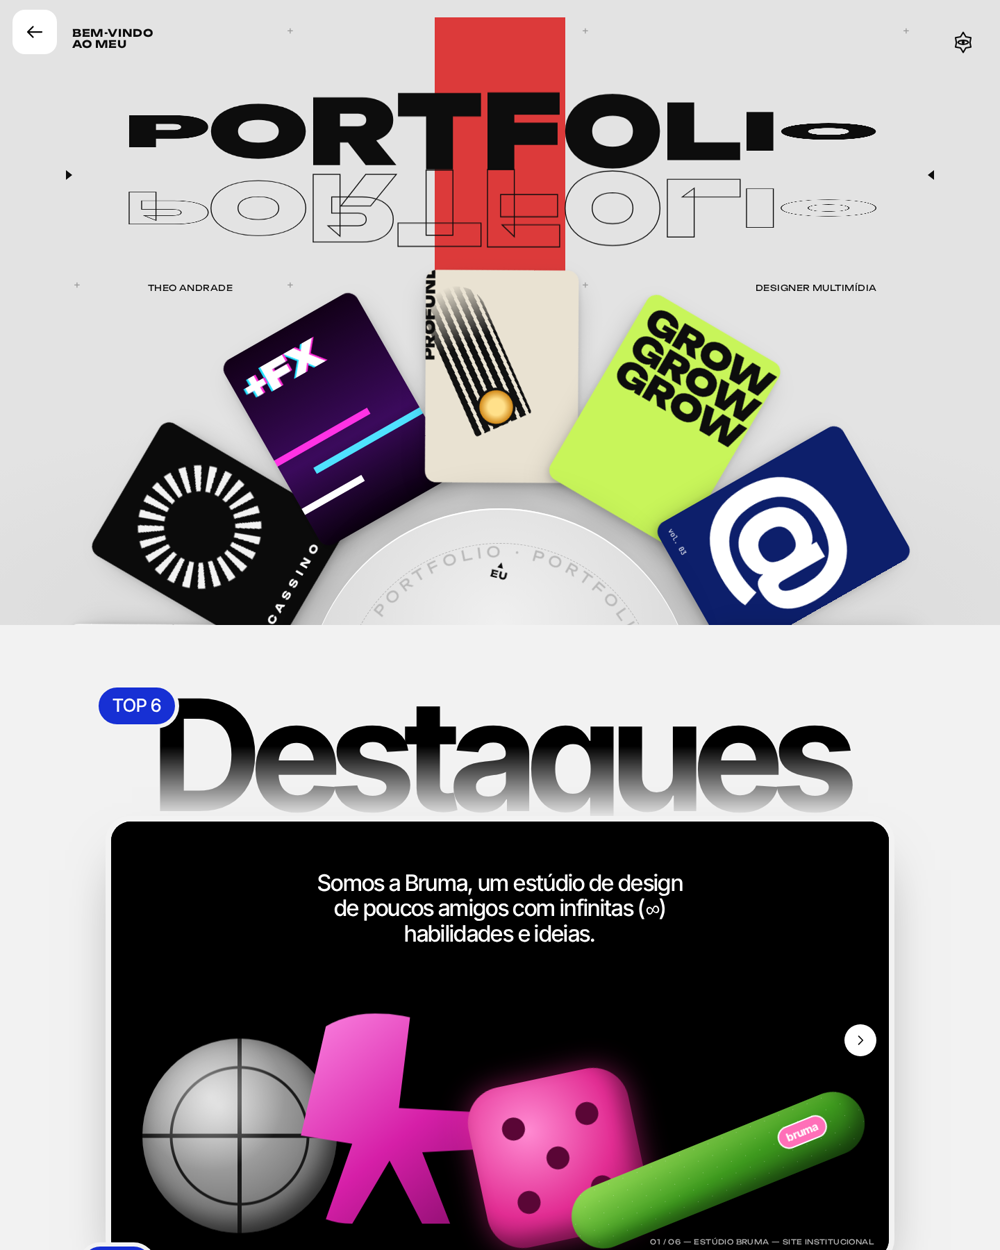
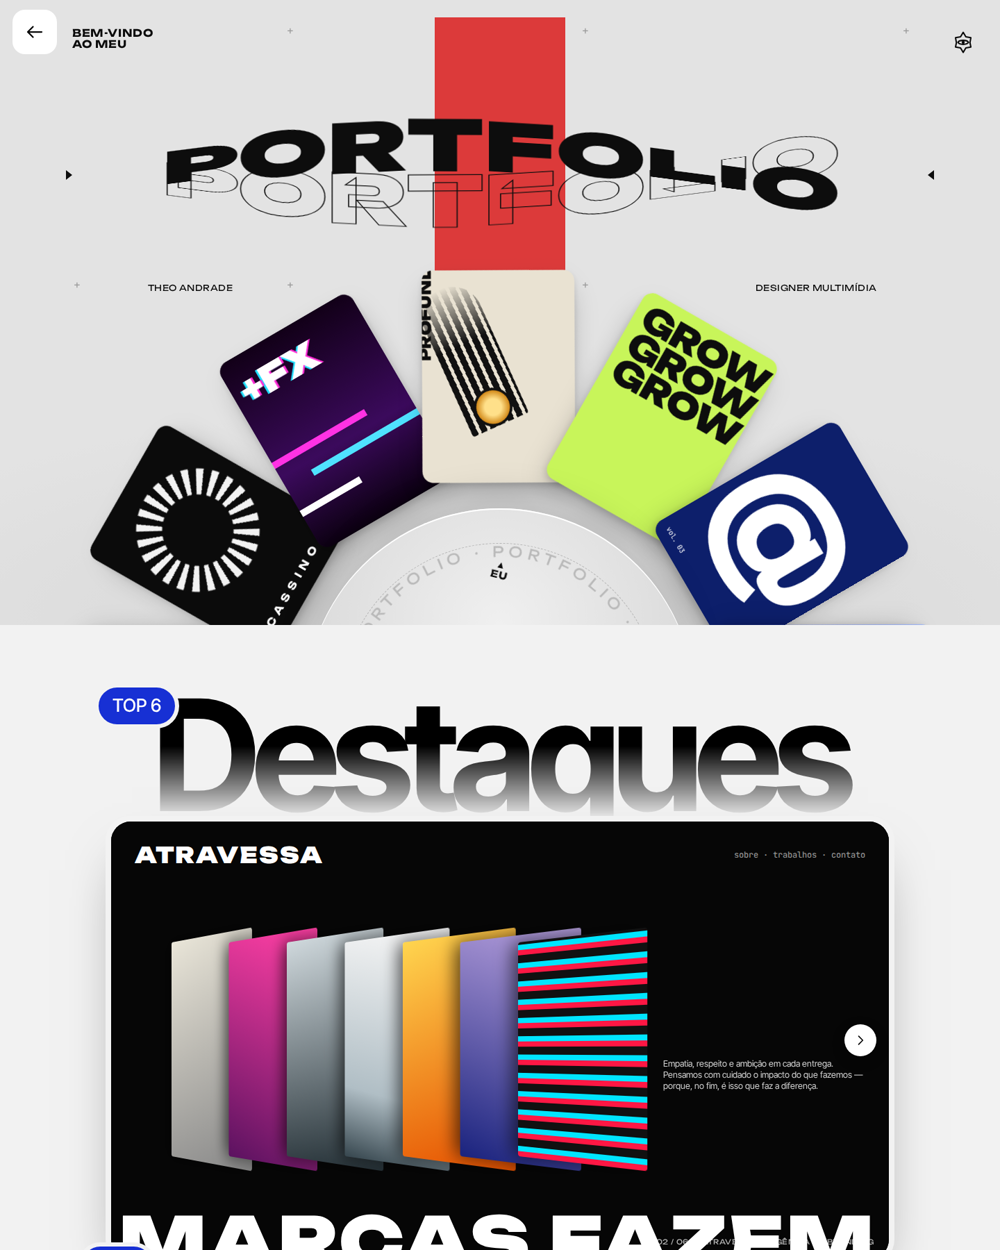
caso-06: título PORTFOLIO em fita igual à referência
As duas linhas (preenchida e vazada) agora trocam de lugar numa onda
contínua que corre pela palavra, com as letras achatando e inclinando
no cruzamento. Fonte mais estreita na altura e esticada na horizontal,
como na referência.

Claude-Session: https://claude.ai/code/session_01AG5rTn6CWeWC3iARPbKf2L

diff --git a/caso-06-designer-theo-andrade/assets/styles.css b/caso-06-designer-theo-andrade/assets/styles.css
@@ -169,40 +169,35 @@ svg { display: block; }
 .title-name { left: 7%; }
 .title-role { right: 4%; }
 
-/* PORTFOLIO em fita torcida: cada letra tem duas linhas que giram em X com fase deslocada */
+/* PORTFOLIO em fita: a linha preenchida e a linha vazada trocam de lugar numa onda
+   que corre da esquerda para a direita (posições calculadas no app.js) */
 .wave {
   position: relative; z-index: 2;
   display: flex;
-  margin-top: -4%;
+  margin-top: -3%;
   font-family: var(--f-wide);
-  font-weight: 900;
-  font-size: clamp(46px, 10.4vw, 150px);
-  line-height: .74;
-  letter-spacing: -.02em;
+  font-weight: 800;
+  font-size: clamp(34px, 7vw, 104px);
+  line-height: 1;
+  letter-spacing: -.01em;
+  transform: scaleX(1.32);
 }
-.wave .col { display: inline-flex; flex-direction: column; align-items: center; }
+.wave .col { position: relative; display: inline-block; }
 .wave .row {
   display: block;
   color: var(--ink);
-  -webkit-text-stroke: 0 var(--ink);
-  animation: twist 4.2s linear infinite;
-  animation-delay: calc(var(--i) * -.21s);
+  transform-origin: 50% 50%;
   will-change: transform;
 }
-.wave .row.b { animation-delay: calc(var(--i) * -.21s - 2.1s); }
-
-.wave .col:nth-child(1) { --i: 0; } .wave .col:nth-child(2) { --i: 1; } .wave .col:nth-child(3) { --i: 2; }
-.wave .col:nth-child(4) { --i: 3; } .wave .col:nth-child(5) { --i: 4; } .wave .col:nth-child(6) { --i: 5; }
-.wave .col:nth-child(7) { --i: 6; } .wave .col:nth-child(8) { --i: 7; } .wave .col:nth-child(9) { --i: 8; }
-
-@keyframes twist {
-  0%     { transform: rotateX(0deg);   color: var(--ink); -webkit-text-stroke-width: 0; }
-  24.9%  { color: var(--ink); -webkit-text-stroke-width: 0; }
-  25%    { transform: rotateX(90deg);  color: transparent; -webkit-text-stroke-width: 1.4px; }
-  74.9%  { color: transparent; -webkit-text-stroke-width: 1.4px; }
-  75%    { transform: rotateX(270deg); color: var(--ink); -webkit-text-stroke-width: 0; }
-  100%   { transform: rotateX(360deg); color: var(--ink); -webkit-text-stroke-width: 0; }
+.wave .row.b {
+  position: absolute; left: 0; top: 0;
+  color: transparent;
+  -webkit-text-stroke: 1.2px var(--ink);
+  z-index: -1;
 }
+/* posição de repouso (sem JS / movimento reduzido): preenchida em cima, vazada embaixo */
+.wave .row.a { transform: translateY(-.4em); }
+.wave .row.b { transform: translateY(.4em); }
 
 /* roda de cards */
 .wheel {
@@ -799,6 +794,7 @@ svg { display: block; }
   .title-block { height: 260px; margin-top: 40px; }
   .title-rect { top: 0; height: 86%; }
   .title-name, .title-role { bottom: 6%; }
+  .wave .row.b { -webkit-text-stroke-width: .8px; }
   .card-grow b { font-size: 30px; } .card-at b { font-size: 120px; } .card-dope b { font-size: 50px; }
   .card-ratio b { font-size: 46px; } .card-grid b { font-size: 34px; } .card-glitch b { font-size: 34px; }
   .card-impact b { font-size: 14px; } .card-casino b { font-size: 10px; }

diff --git a/caso-06-designer-theo-andrade/assets/app.js b/caso-06-designer-theo-andrade/assets/app.js
@@ -1,10 +1,42 @@
 // Theo Andrade — caso-06
+// 0. título PORTFOLIO em fita (onda)
 // 1. roda de cards do hero (gira um card por vez)
 // 2. carrossel da tela de destaques
 // 3. sentido de rotação do livro 3D
 // 4. scroll da seção final (wordmark estica + nuvem de imagens)
 
 const reduceMotion = window.matchMedia('(prefers-reduced-motion: reduce)').matches;
+
+/* ---------- 0. título em fita ---------- */
+// cada letra tem duas cópias (preenchida e vazada) que trocam de lugar em contrafase;
+// a fase avança letra a letra, então a troca corre pela palavra como uma onda.
+// perto do cruzamento a letra achata e inclina seguindo a curva da fita.
+const waveCols = [...document.querySelectorAll('.wave .col')];
+if (waveCols.length && !reduceMotion) {
+  const SPEED = 1.9;   // rad/s
+  const STEP = 0.42;   // defasagem entre letras (rad)
+  const AMP = 0.4;     // deslocamento vertical, em em
+  const rows = waveCols.map((col) => [col.querySelector('.row.a'), col.querySelector('.row.b')]);
+
+  const frame = (now) => {
+    const t = now / 1000;
+    const em = parseFloat(getComputedStyle(waveCols[0]).fontSize);
+    const w = waveCols[0].offsetWidth || em;
+    const y = (i, sign) => sign * -AMP * em * Math.cos(t * SPEED - i * STEP);
+
+    rows.forEach(([a, b], i) => {
+      [[a, 1], [b, -1]].forEach(([el, sign]) => {
+        const c = Math.cos(t * SPEED - i * STEP);
+        const sy = Math.max(Math.pow(Math.abs(c), 0.45), 0.06);
+        const slope = (y(i + 1, sign) - y(i - 1, sign)) / (2 * w);
+        const tilt = Math.atan(slope) * 0.9;
+        el.style.transform = `translateY(${y(i, sign).toFixed(2)}px) skewY(${tilt.toFixed(3)}rad) scaleY(${sy.toFixed(3)})`;
+      });
+    });
+    requestAnimationFrame(frame);
+  };
+  requestAnimationFrame(frame);
+}
 
 /* ---------- 1. roda de cards ---------- */
 const wheel = document.querySelector('[data-wheel]');
